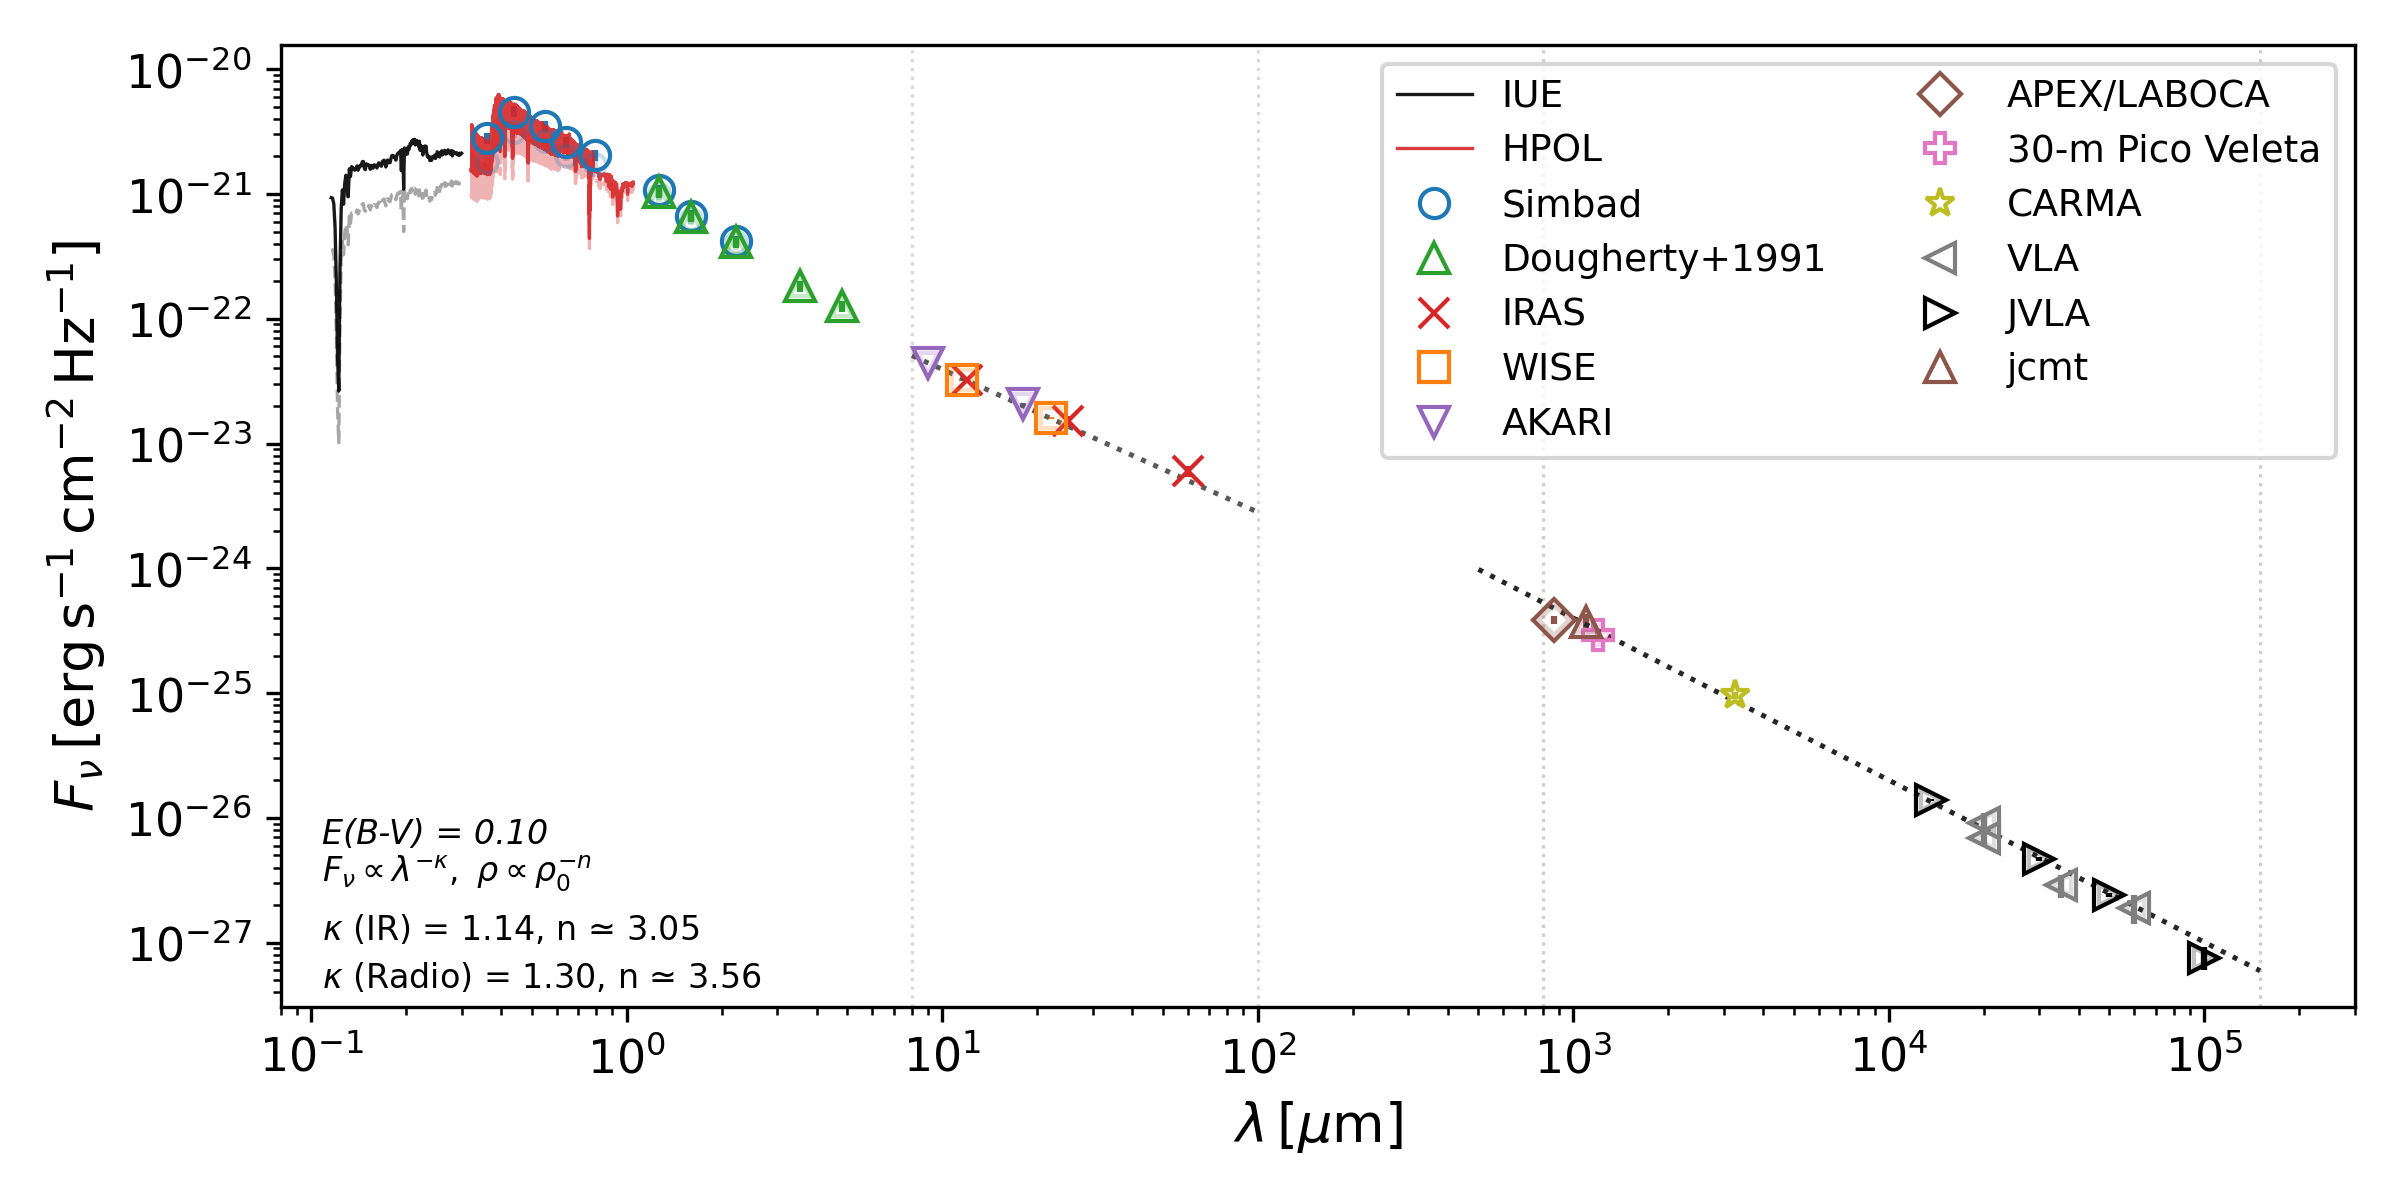
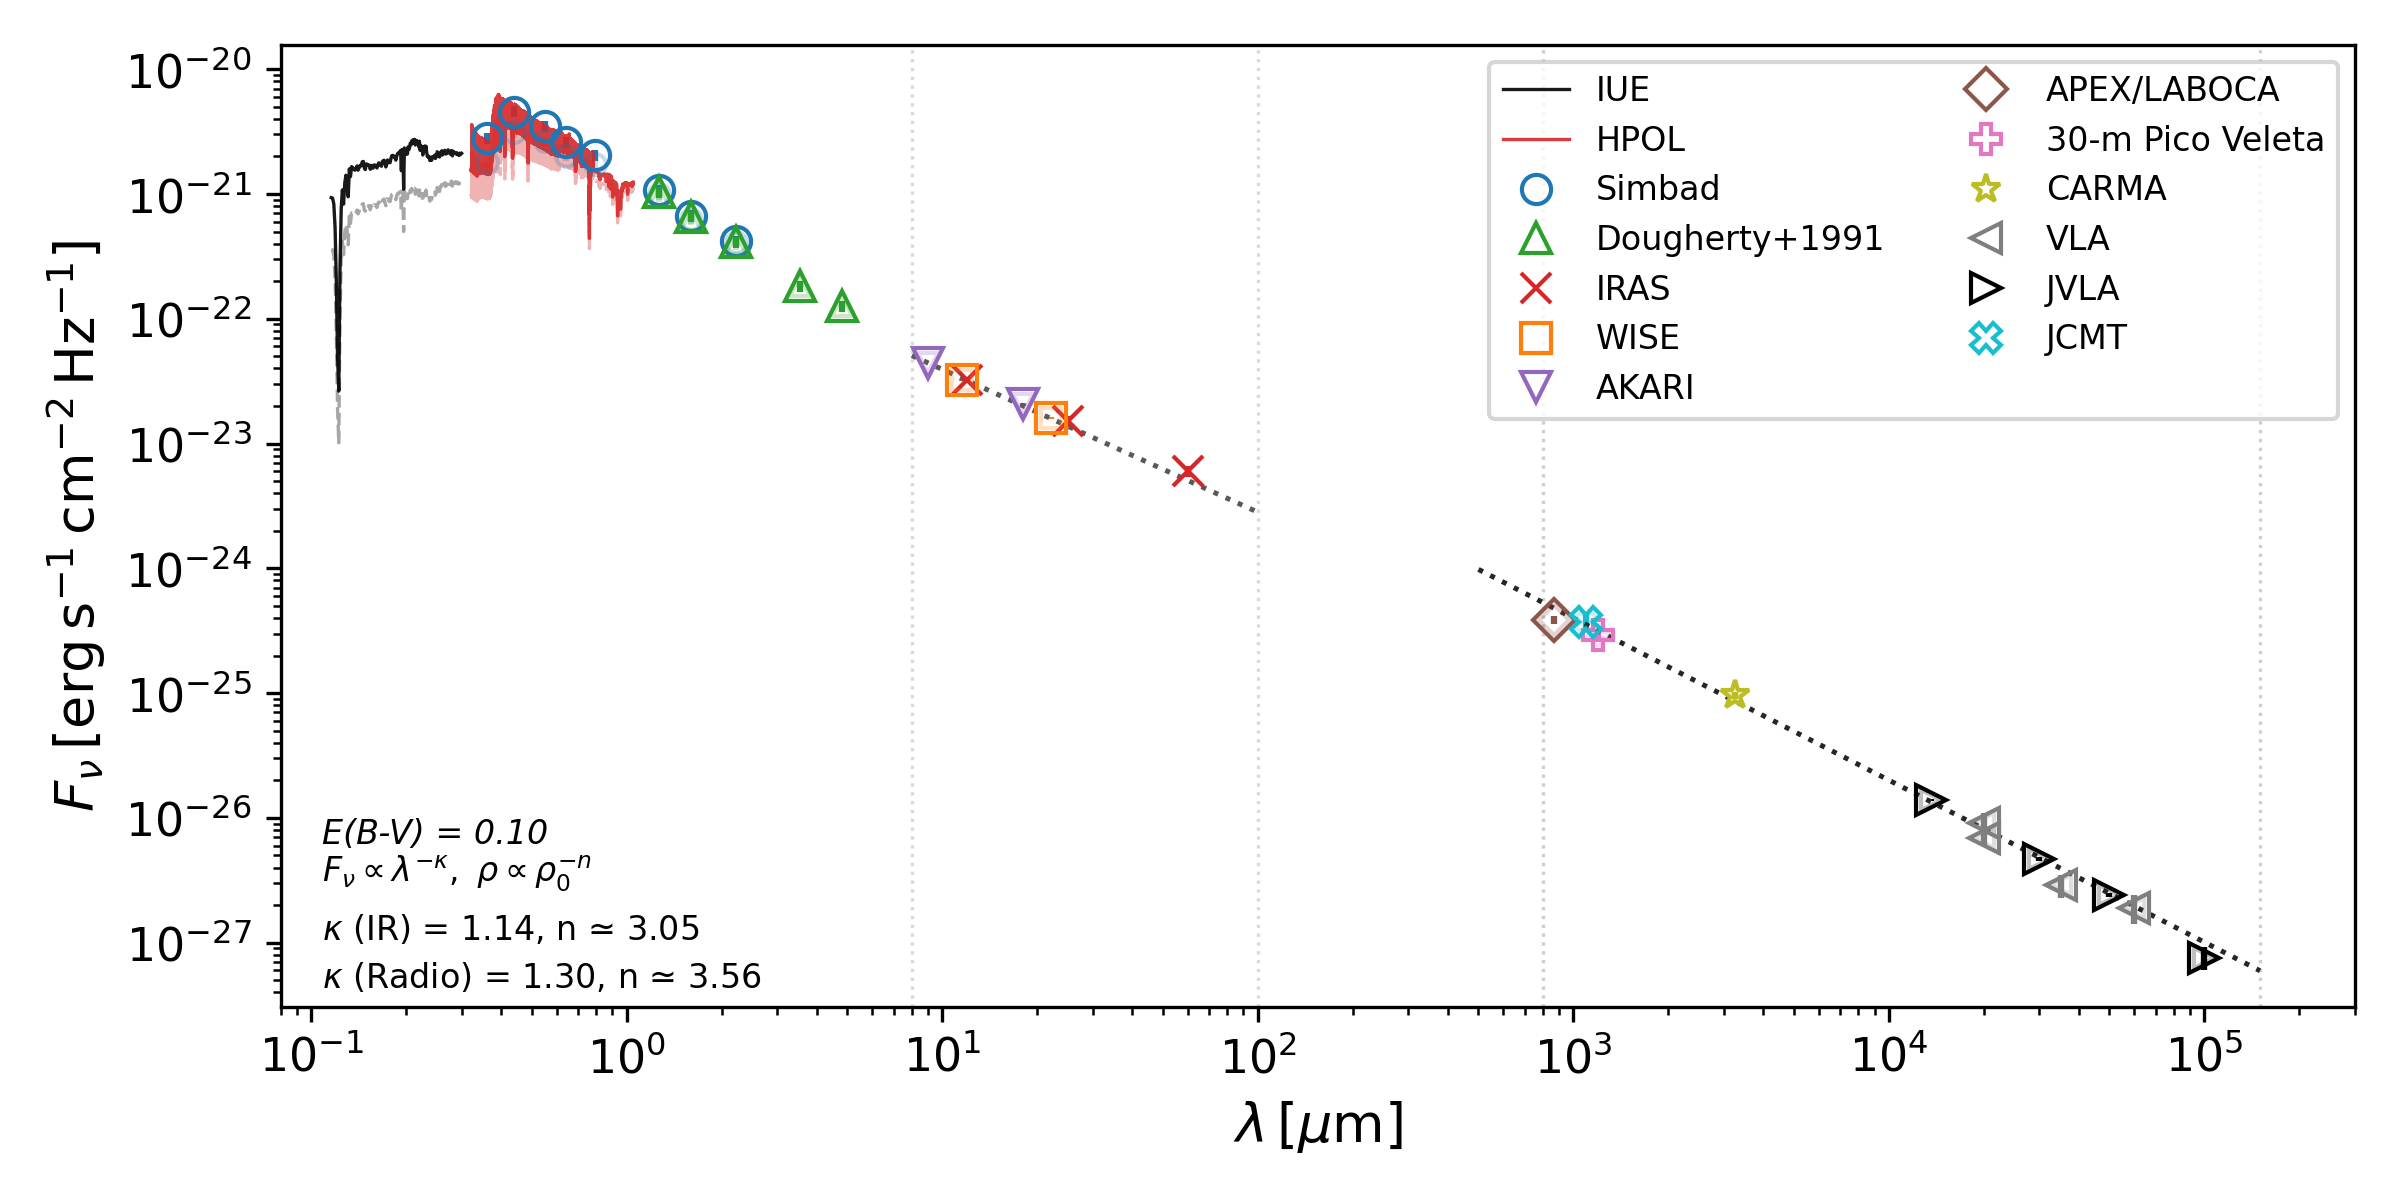
...

Changed region(s): [[0.5625, 0.0308, 0.9688, 0.4008], [0.6562, 0.4933, 0.6875, 0.555]]

diff --git a/plot_SED.py b/plot_SED.py
@@ -70,6 +70,7 @@ styles = {
     "laboca": ("APEX/LABOCA", "D", "tab:brown"),
     "wendker+2000": ("30-m Pico Veleta", "P", "tab:pink"),
     "waters+1991": ("JCMT", "X", "tab:cyan"),
+    "jcmt": ("JCMT", "X", "tab:cyan"),
     "karma": ("CARMA", "*", "tab:olive"),
     "vla": ("VLA", "<", "tab:gray"),
     "jvla": ("JVLA", ">", "k"),
@@ -632,7 +633,7 @@ def plot_single_star(
         ax.set_ylim(y_min / 2.5, y_max * 2.5)
 
     ax.legend(
-        fontsize=9,
+        fontsize=8,
         ncol=2,
         numpoints=1,
         handler_map={ErrorbarContainer: HandlerErrorbar(xerr_size=0.0, yerr_size=0.0)},
